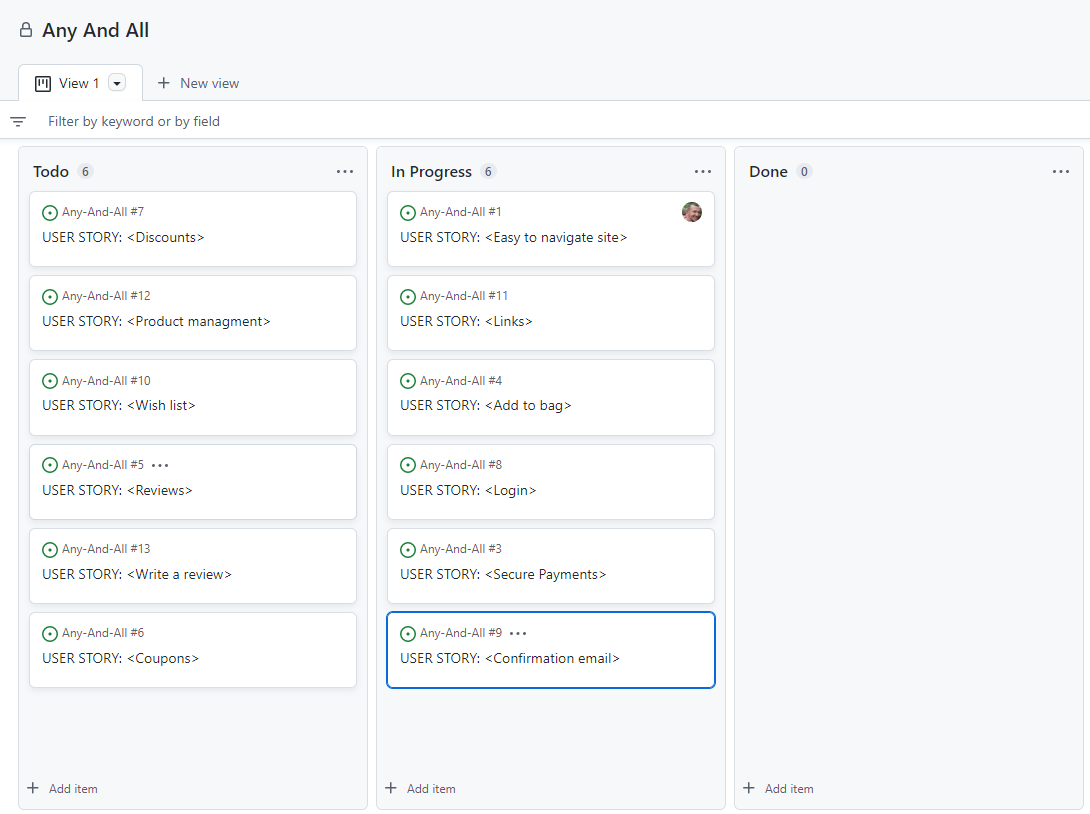
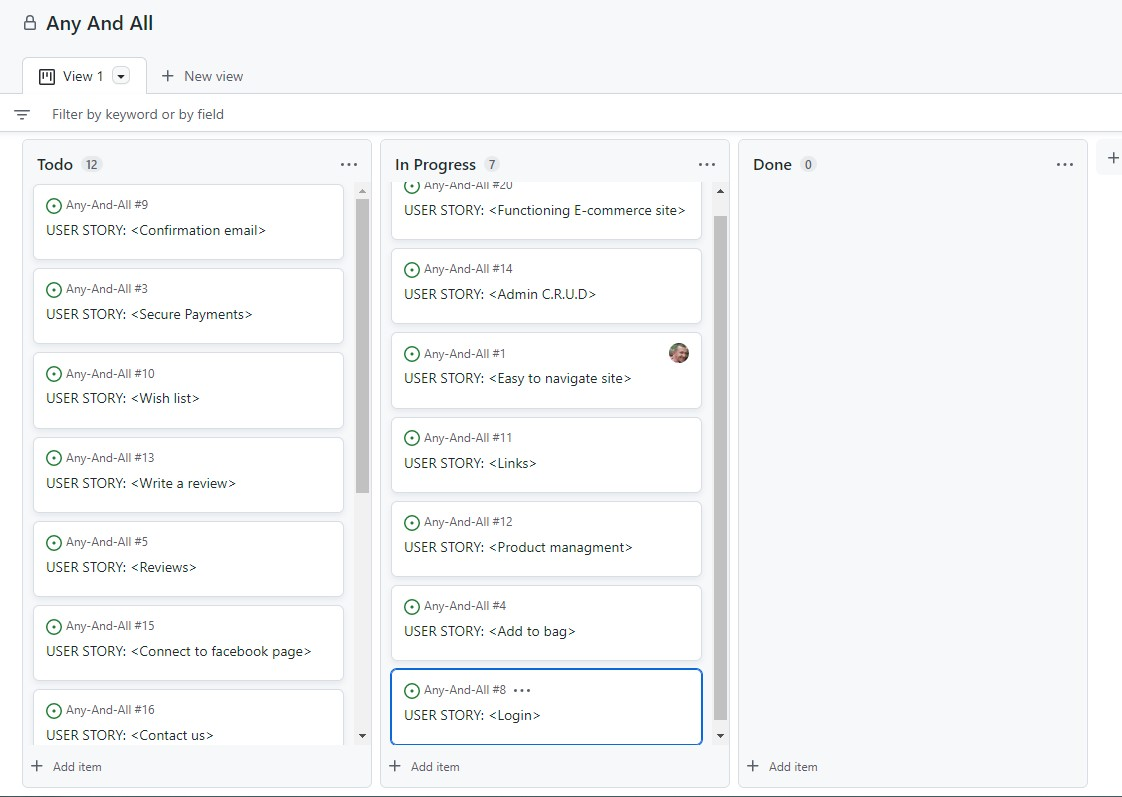
added images of methodology Kanban board and started readme,md

diff --git a/README.md b/README.md
@@ -1,0 +1,84 @@
+![A banner of the site to add flare to the readme.md](media/any-and-all-banner.jpg)
+
+# Any And All
+
+### Live site:
+
+https://any-and-all.herokuapp.com/
+
+Any And All is a B2C E-commerce online shopping site with easy to use navigation to all pages with a search bar that can search any category or price or even key words in any product making the site very accessible and easy to use for any level of user.
+The site consists of a sign up, sign in an sign out ability for ease of second visit saving customer details so check out will be super quick and easy with a secure payment system through Stripe payments so all user details are protected.
+The user also has the option of signing up for a newsletter and checking out our Facebook page to stay up to date with all the latest deals and discounted products.
+C.R.U.D functionality for users and staff..... 
+- For users ~ They can write reviews, edit old reviews and delete them at any time and add things to they're wish list with the same edit, update and delete capabilities but they will need to register for this function.
+- For staff ~ They can add, edit, update and delete items in the store with the correct authorization so the average user can not access these areas.
+- For store owners ~ They can access the Admin with they're superuser authorization to remove any profanity written in reviews and control anything across the store like users, products, Emails Etc.
+---
+
+##  Screen shots of the site and it's responsive abilities:
+
+
+I used http://ami.responsivedesign.is/ to check what it would look like on all devices.
+As you can see it's fully responsive right across all devices and adapts to any screen sizes.
+![An image of the site on multiple screen sizes](media/any-and-all-responsive.jpg)
+
+---
+
+- [Back to the top](#any-and-all)
+
+---
+
+## User stories where built in an Agile methodology Kanban board using the MoSCoW technique MUST have, SHOULD have, COULD have and WON'T have to construct the site and all it's functionality:
+---
+
+![User stories](media/any-and-all-agile-method5.jpg)
+![User stories](media/any-and-all-agile-method4.jpg)
+
+---
+
+## Then assessed into EPICS 
+# Epics
+
+* ## Epic 1 - Store owner control: 
+
+|  User Story Epic  |    User Type   |  Content  |  MoSCoW Label |
+| --------------- | -------------- | --------- | -------------|
+| [#1] Admin CRUD  |  As a store owner  |  I'd like the ability to create, read, update and delete data on the site so I can control any unwanted profanity in reviews or update any products in the store.  |  Must Have  |
+| [#2] Connect to facebook page  |  As a store owner  |  I want to make sure we reach out to other potential customers by connecting our facebook page.|  Must Have  |
+| [#3] Contact us  |  As a store owner  |  I'd like to allow our customers to contact us easily with one click so I can help them if they have any problems.|  Must Have  |
+| [#4] Send newsletters  |  As a store owner  |  I'd like to send a newsletters out to our subscribed customers so I can update them on our latest deals and discounted items.|  Should Have  |
+| [#5] Privacy Policy |  As a store owner  |  I'd like to allow our customers to view the privacy policy at any time so I can give the customer peace of mind.|  Should Have  |
+| [#6] Secure payments link |  As a store owner  |  I'd like to allow our customers to check out how we make our payments secure by following the link to Stripe Payments site so I can give the customer peace of mind.|  Could Have  |
+
+* ## Epic 2 - Site users:
+|  User Story Epic |    User Type   |  Content  |  MoSCoW Label  |
+| --------------- | -------------- | --------- | -------------|
+| [#7]  Easy to navigate site  |  As a site user  |  I'd like an easy to navigate site so I can find my way around easily.|  Must Have  |
+| [#8] Add to bag  |  As a site user  |  I'd like to add items to the bag before purchasing so I can edit my items before checking out.|  Must Have  |
+| [#9] Secure Payments  |  As a site user  | I'd like a site that has a secure payment system so I can keep my details safe.|  Must Have  |
+| [#10] Login  |  As a returning user  | I'd like save my details so I can purchase items faster next time.|  Should Have  |
+| [#11] Reviews  |  As a site user  | I'd like to read reviews so I can find out what other people think of the products.|  Should Have  |
+| [#12] Write reviews  |  As a site user  |  I'd like to write, edit or delete a review so I can share my thoughts on an item.|  Should Have  |
+| [#13] Wish list  |  As a site user  |  I'd like to save my favorite items to my wish list so I can buy them at a later date.|  Should Have  |
+| [#14] Confirmation email  |  As a site user  |   I'd like a confirmation email so I can check my order details.|  Should Have  |
+| [#15] Discounts  |  As a site user  |    I'd like some discounted items so I can save some money on my purchases.|  Should Have  |
+| [#16] Coupons  |  As a returning site user  |   I'd like a coupon so I can receive discounts for loyalty.|  could Have/Won't Have  |
+
+* ## Epic 3 - Staff:
+|  User Story Epic |    User Type   |  Content  | MoSCoW Label |
+| --------------- | -------------- | --------- | -------------|
+| [#17]  Product management | As a store owner  | I'd like a manage product page so I can easily add, edit or delete a product.| Must Have |
+
+* ## Epic 4 - Site owner:
+|  User Story Epic |    User Type   |  Content  | MoSCoW Label |
+| --------------- | -------------- | --------- | -------------|
+| [#18]  Links | As a site owner  | I'd like to create links to corresponding page so I can make sure users, staff and store owners are directed to relevant pages.| Must Have |
+| [#19]  Functioning E-commerce site | As a site owner  | I'd like build a fully functioning E-commerce site so I can add it to my profile of websites I've create with Code Institute| Must Have |
+
+## Then prioritized: 
+
+![User stories](media/any-and-all-agile-method1.jpg)
+![User stories](media/any-and-all-agile-method2.jpg)
+![User stories](media/any-and-all-agile-method3.jpg)
+
+- [Back to the top](#urais-thai-kitchen)
